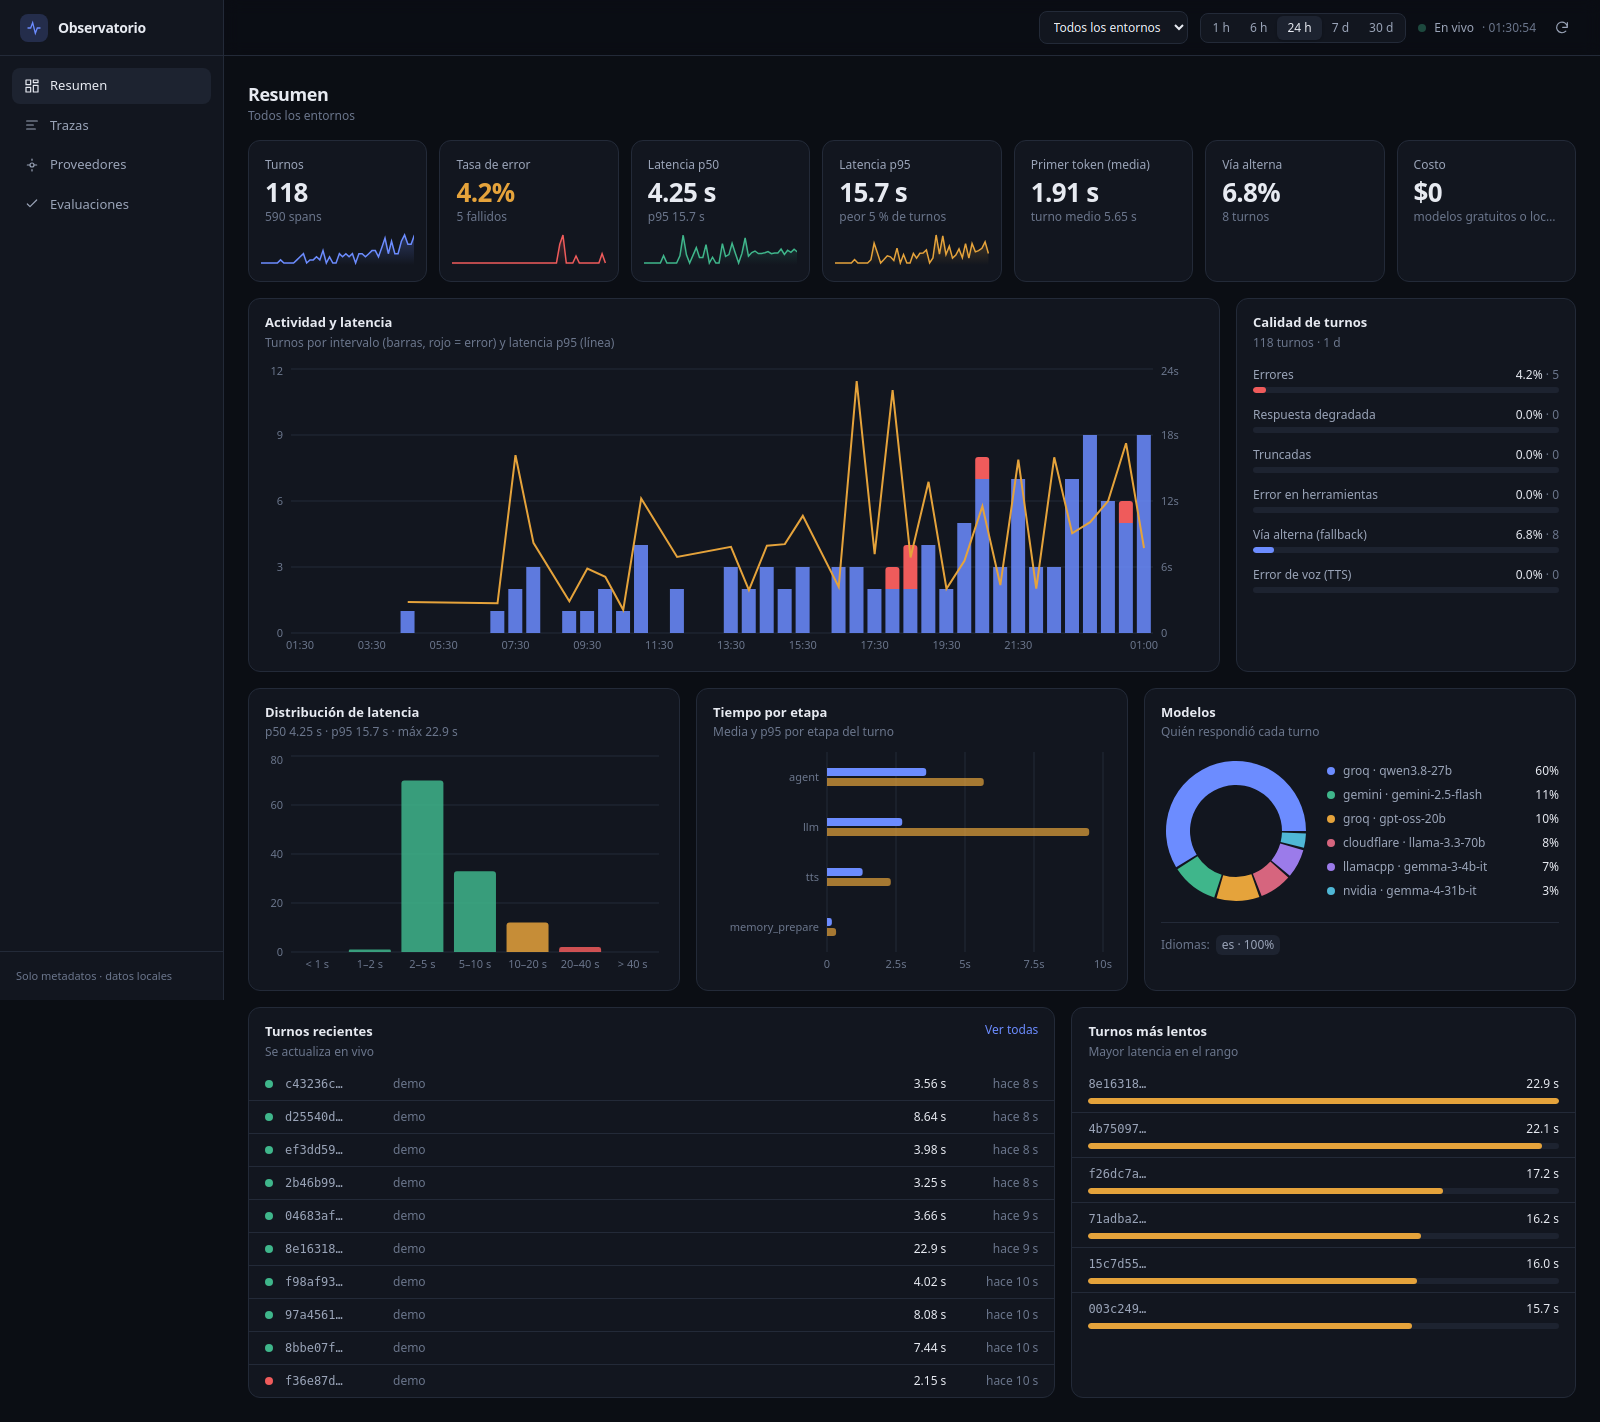
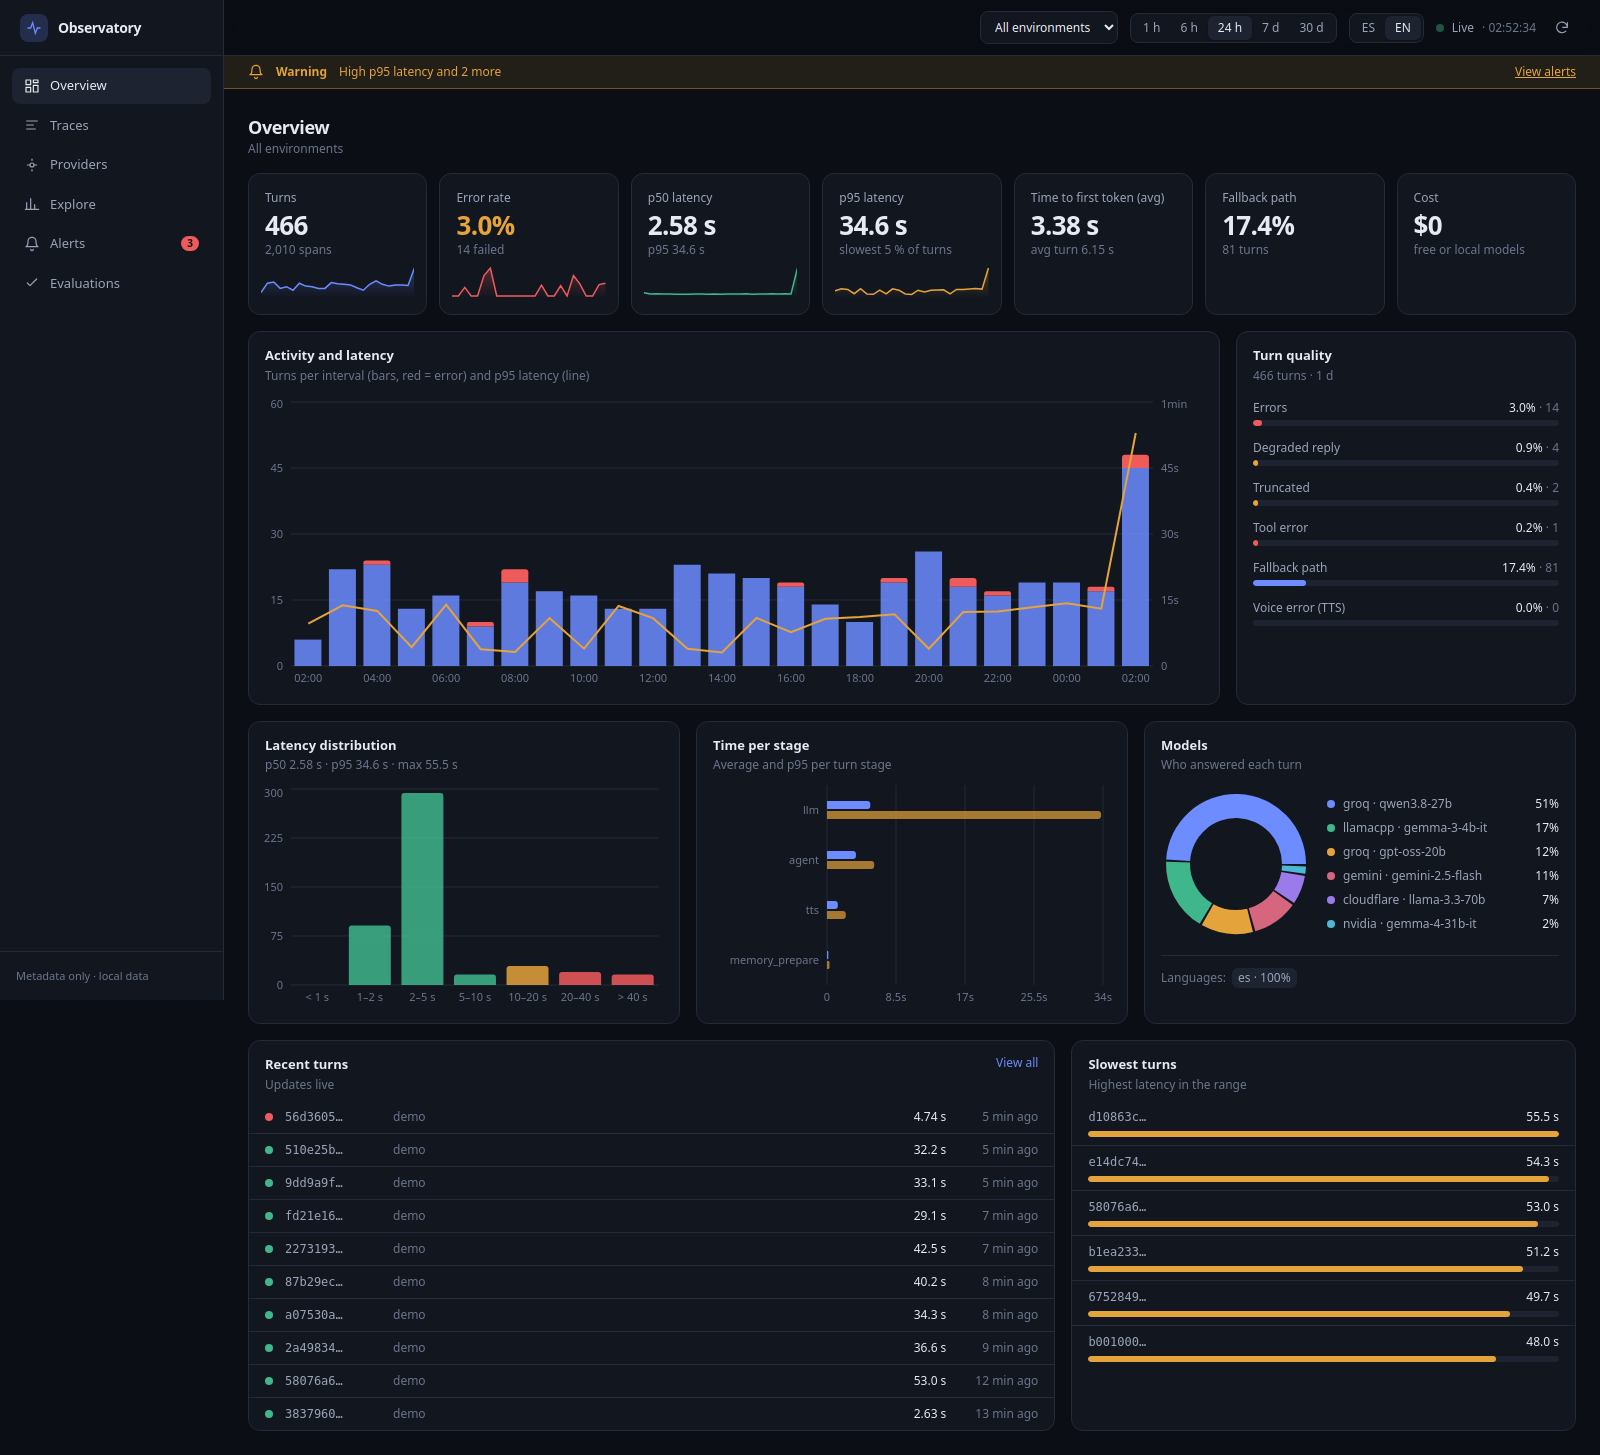
docs(readme): refresh the screenshots and describe alerts, evaluations, explore and the language switch

diff --git a/README.md b/README.md
@@ -10,7 +10,7 @@ LLM and agentic systems. It stores traces in SQLite or PostgreSQL that you
 control, works with local or hosted models, and requires no Observer cloud
 account.
 
-![Observer dashboard overview: KPIs with sparklines, activity and p95 latency, latency distribution, time per stage, models](docs/assets/ui-overview.png)
+![Observer dashboard overview: KPIs with sparklines, activity and p95 latency, latency distribution, time per stage, models, alert banner](docs/assets/ui-overview.png)
 
 _The dashboard above was rendered from synthetic telemetry. The clean-runner
 [quickstart smoke test](.github/workflows/quickstart-smoke.yml) still captures its own screenshot
@@ -20,20 +20,35 @@ as a CI artifact._
 
 The dashboard was rebuilt as a dense, dark console: sidebar navigation, a global time range and
 environment filter, live updates, and charts that use the whole screen. The interface is available in
-English and Spanish: pick the language with the ES/EN switch in the header (the choice is remembered; the
-default follows the browser language).
+English and Spanish: pick the language with the ES/EN switch in the header (the choice is remembered;
+the default follows the browser language).
 
 - **Overview** — turns, error rate, p50/p95 latency, time to first token, fallback rate and cost
-  (always shown, even at $0), with an activity/latency chart, latency histogram, per-stage time
-  and model share.
-- **Providers** (new) — your LLM fallback chain in the order it is tried, with per-provider success
-  rate, 429/timeout/error counts, p50/p95 latency, how often each one actually answered, fallback
-  depth and common routes. It flags providers that are configured but never reached.
+  (always shown, even at $0), an activity/latency chart, latency histogram, per-stage time and model
+  share. The series and latency KPIs come from the metrics query, so 7 d and 30 d ranges use every turn.
+- **Providers** — your LLM fallback chain in the order it is tried, with per-provider success rate,
+  429/timeout/error counts, p50/p95 latency, how often each one answered, fallback depth, common routes
+  and the average turn score. It flags providers that are configured but never reached.
 
 ![Providers: fallback chain, per-provider table, fallback depth, latency and routes](docs/assets/ui-providers.png)
 
-- **Trace detail** — a hierarchical waterfall, a per-stage time bar and, for `llm.chain` spans,
-  the provider-by-provider attempts of that turn.
+- **Alerts** — threshold rules over a sliding window (error rate, p95 latency, fallback rate, provider
+  failures, providers out of quota, ...), a global banner and optional desktop notifications.
+
+![Alerts: open alerts, rules and history](docs/assets/ui-alerts.png)
+
+- **Evaluations** — every turn is scored without a model (health, completeness, quality, fallback,
+  latency, time to first token), with quality by model and the per-criterion breakdown of each turn.
+
+![Evaluations: quality by model, score distribution and the breakdown of one turn](docs/assets/ui-evaluations.png)
+
+- **Explore** — a query builder over turns, provider attempts and evaluations (measure, aggregation,
+  group by, granularity). The query lives in the URL so it can be shared, and views can be saved.
+
+![Explore: p95 turn duration by provider over time](docs/assets/ui-explore.png)
+
+- **Trace detail** — a hierarchical waterfall, a per-stage time bar and, for `llm.chain` spans, the
+  provider-by-provider attempts of that turn.
 
 ![Trace detail with the llm.chain attempts of one turn](docs/assets/ui-trace-detail.png)
 
@@ -415,7 +430,7 @@ export OBSERVATORY_JUDGE_MODEL=gpt-4o  # default
 ### Run tests
 
 ```bash
-# Backend (169 tests)
+# Backend (170 tests)
 cd backend && pytest
 
 # Python SDK (37 tests)
